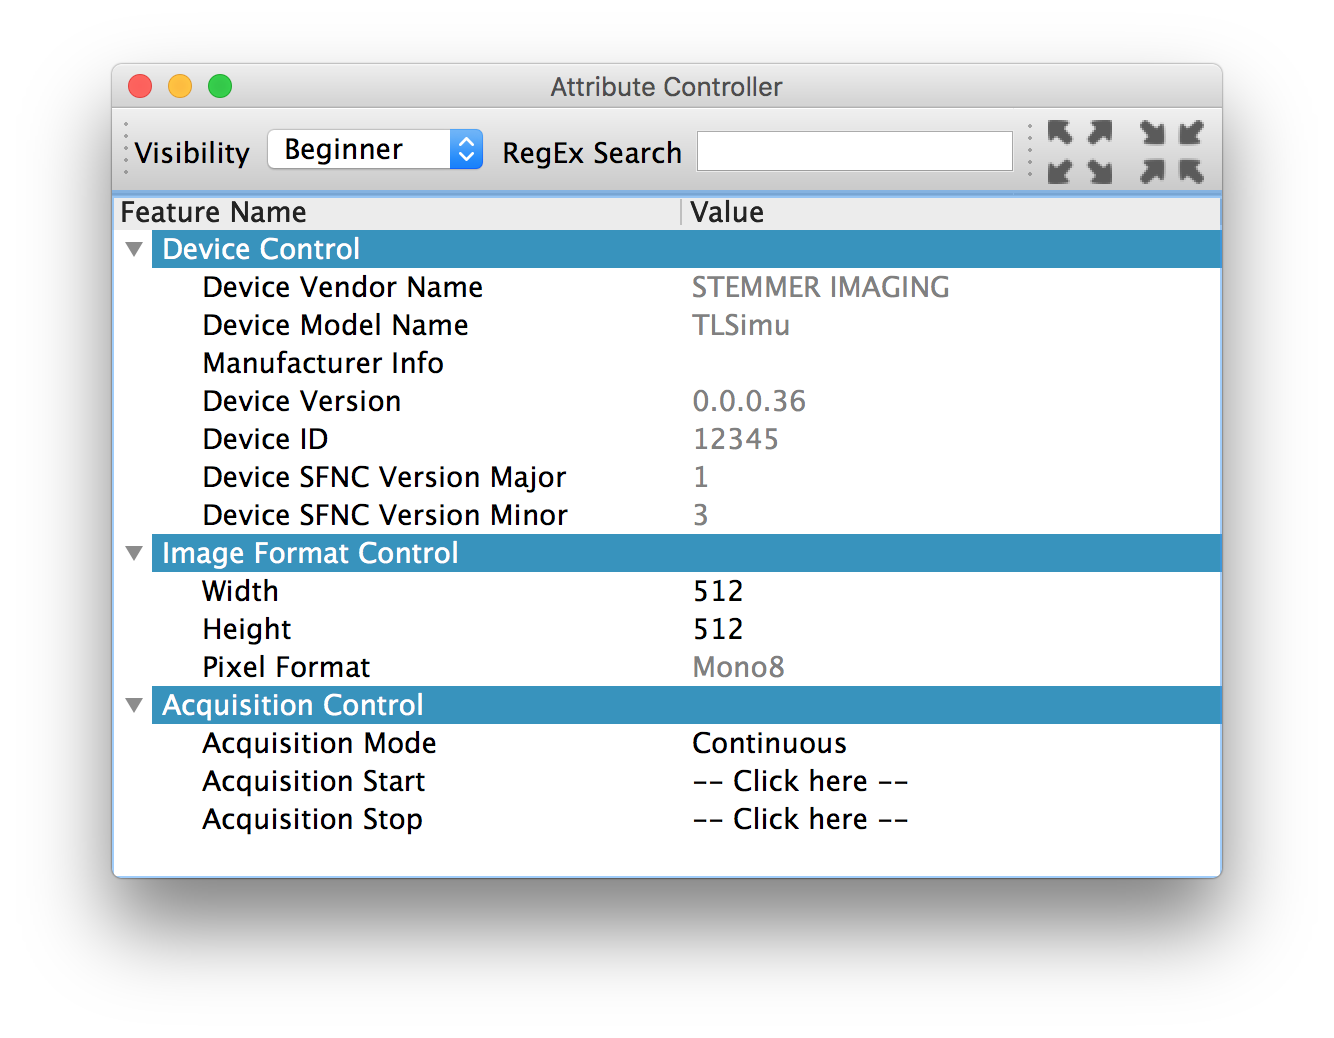
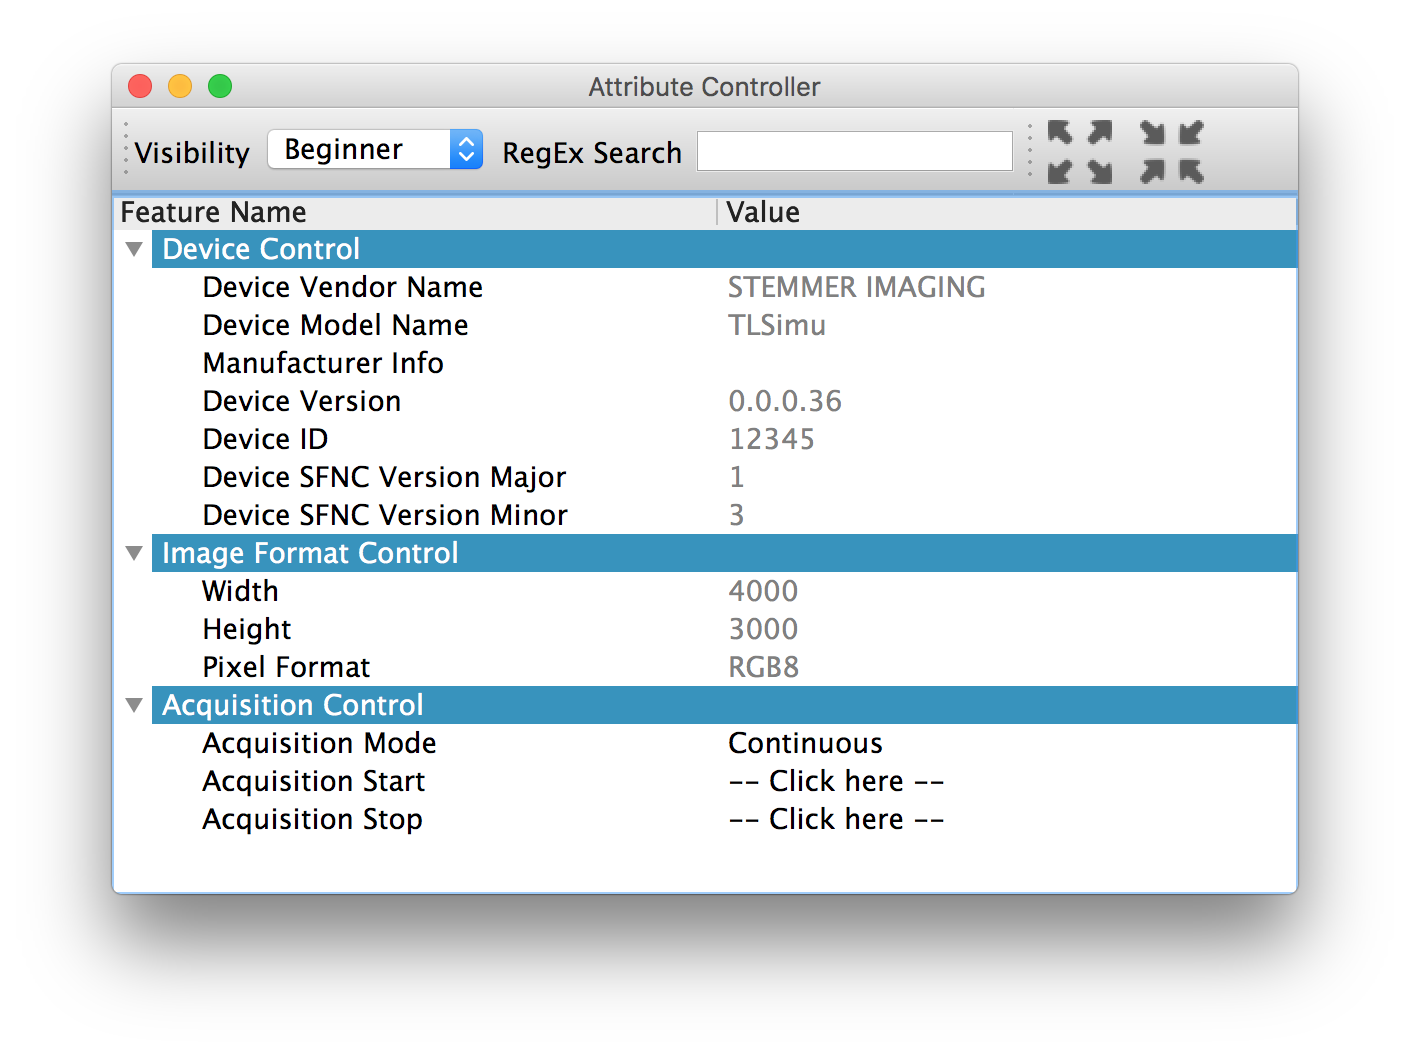
Update the screenshots following TLSimu's change at r5232

Changed region(s): [[0.0615, 0.0617, 0.922, 0.8632], [0.3996, 0.0617, 0.584, 0.0925]]

diff --git a/README.rst b/README.rst
@@ -85,9 +85,9 @@ Supported pixel formats
 
 Currently Harvester GUI supports the following pixel formats that are defined by the Pixel Format Naming Convention:
 
-* Mono8
-* RGB8 and RGB8Packed
-* BayerRG8, BayerGR8, BayerBG8, and BayerGB8 (No demosaicing supported)
+* ``Mono8``
+* ``RGB8``
+* ``BayerRG8``, ``BayerGR8``, ``BayerBG8``, and ``BayerGB8`` (No demosaicing supported)
 
 ***********
 Screenshots
